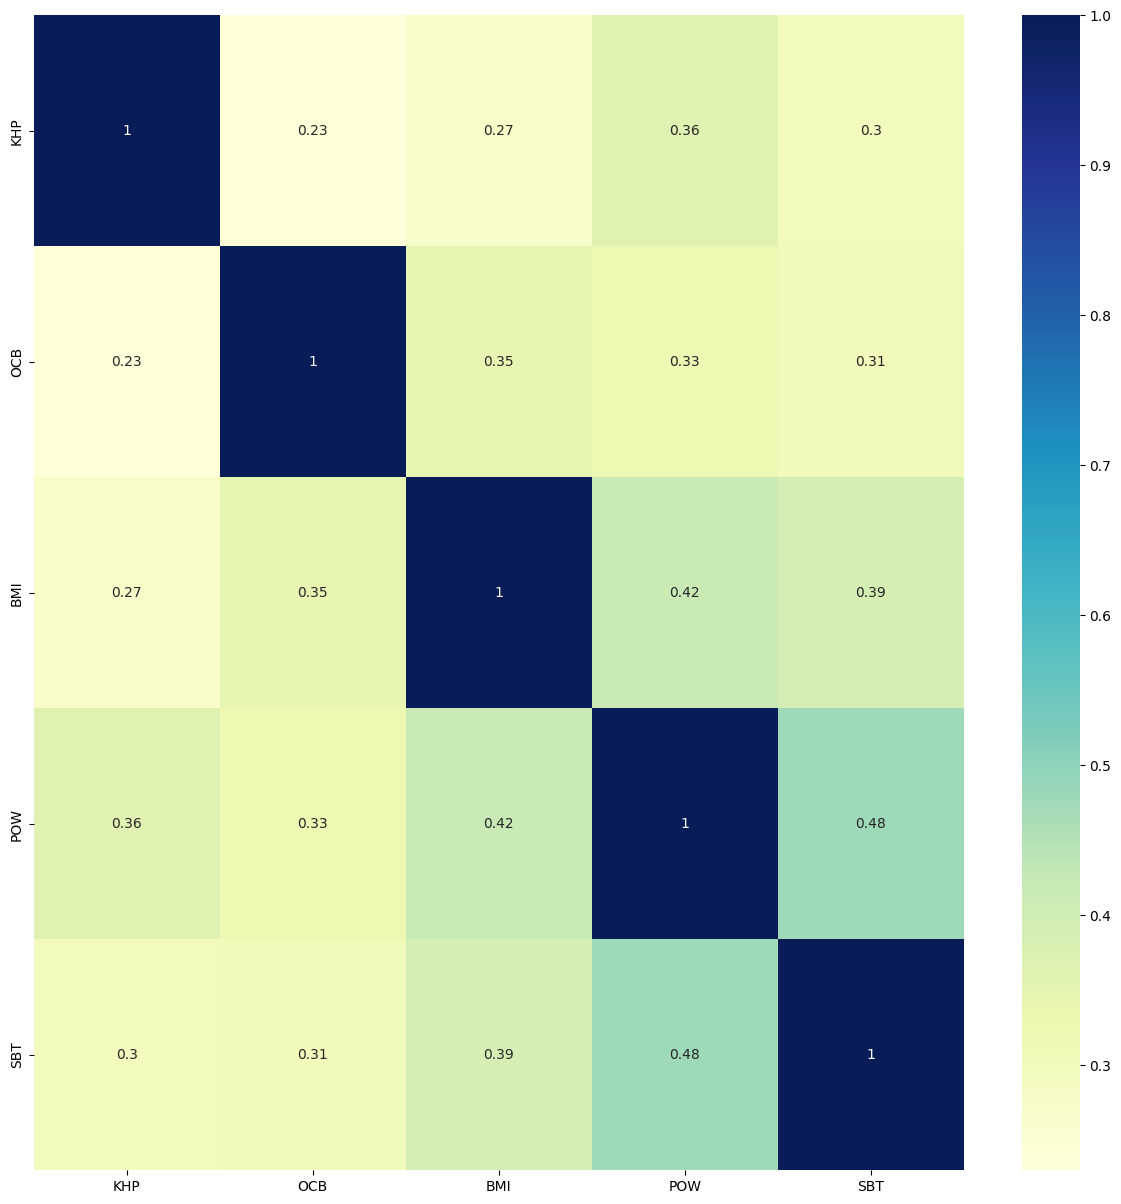
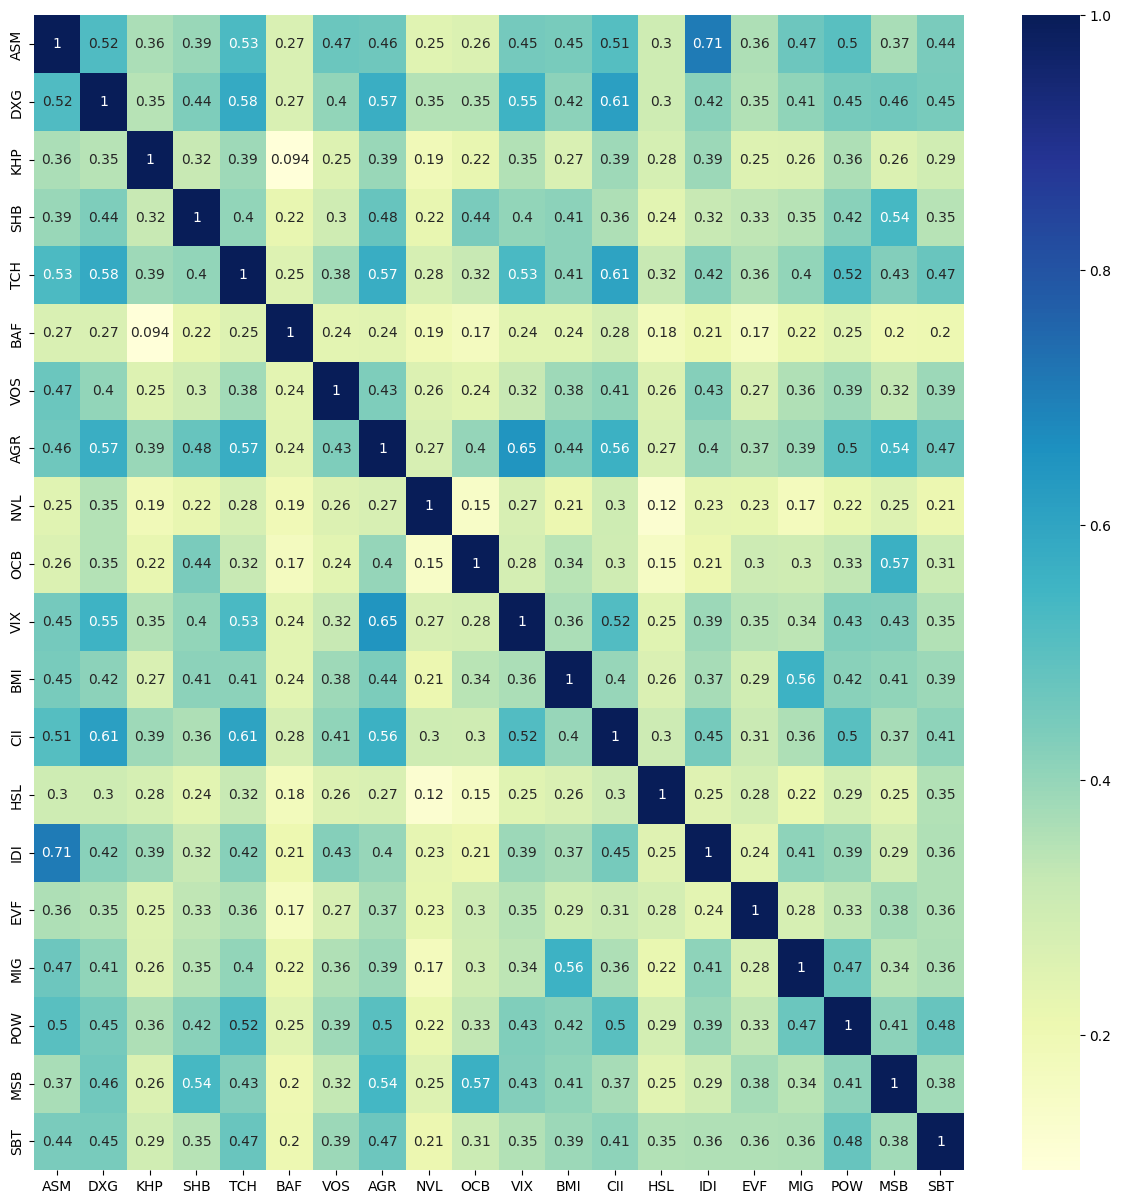
v4

diff --git a/.ipynb_checkpoints/data_wrangling-checkpoint.py b/.ipynb_checkpoints/data_wrangling-checkpoint.py
@@ -7,8 +7,8 @@ data_path = 'data/'
 
 def data_wangling_main():
     data, stock_names = data_wrangling(data_path,save=True)
-    # selected_columns = data.columns
-    # correlation_matrix(data,selected_columns,save=True)
+    selected_columns = data.columns
+    correlation_matrix(data,selected_columns,save=True)
     market_data = market_data_generation(data_path)
     beta_result_df = beta_computation(data,market_data,save = True)
     port_cluster(data, stock_names, save = True)

diff --git a/data_wrangling.py b/data_wrangling.py
@@ -7,8 +7,8 @@ data_path = 'data/'
 
 def data_wangling_main():
     data, stock_names = data_wrangling(data_path,save=True)
-    # selected_columns = data.columns
-    # correlation_matrix(data,selected_columns,save=True)
+    selected_columns = data.columns
+    correlation_matrix(data,selected_columns,save=True)
     market_data = market_data_generation(data_path)
     beta_result_df = beta_computation(data,market_data,save = True)
     port_cluster(data, stock_names, save = True)
